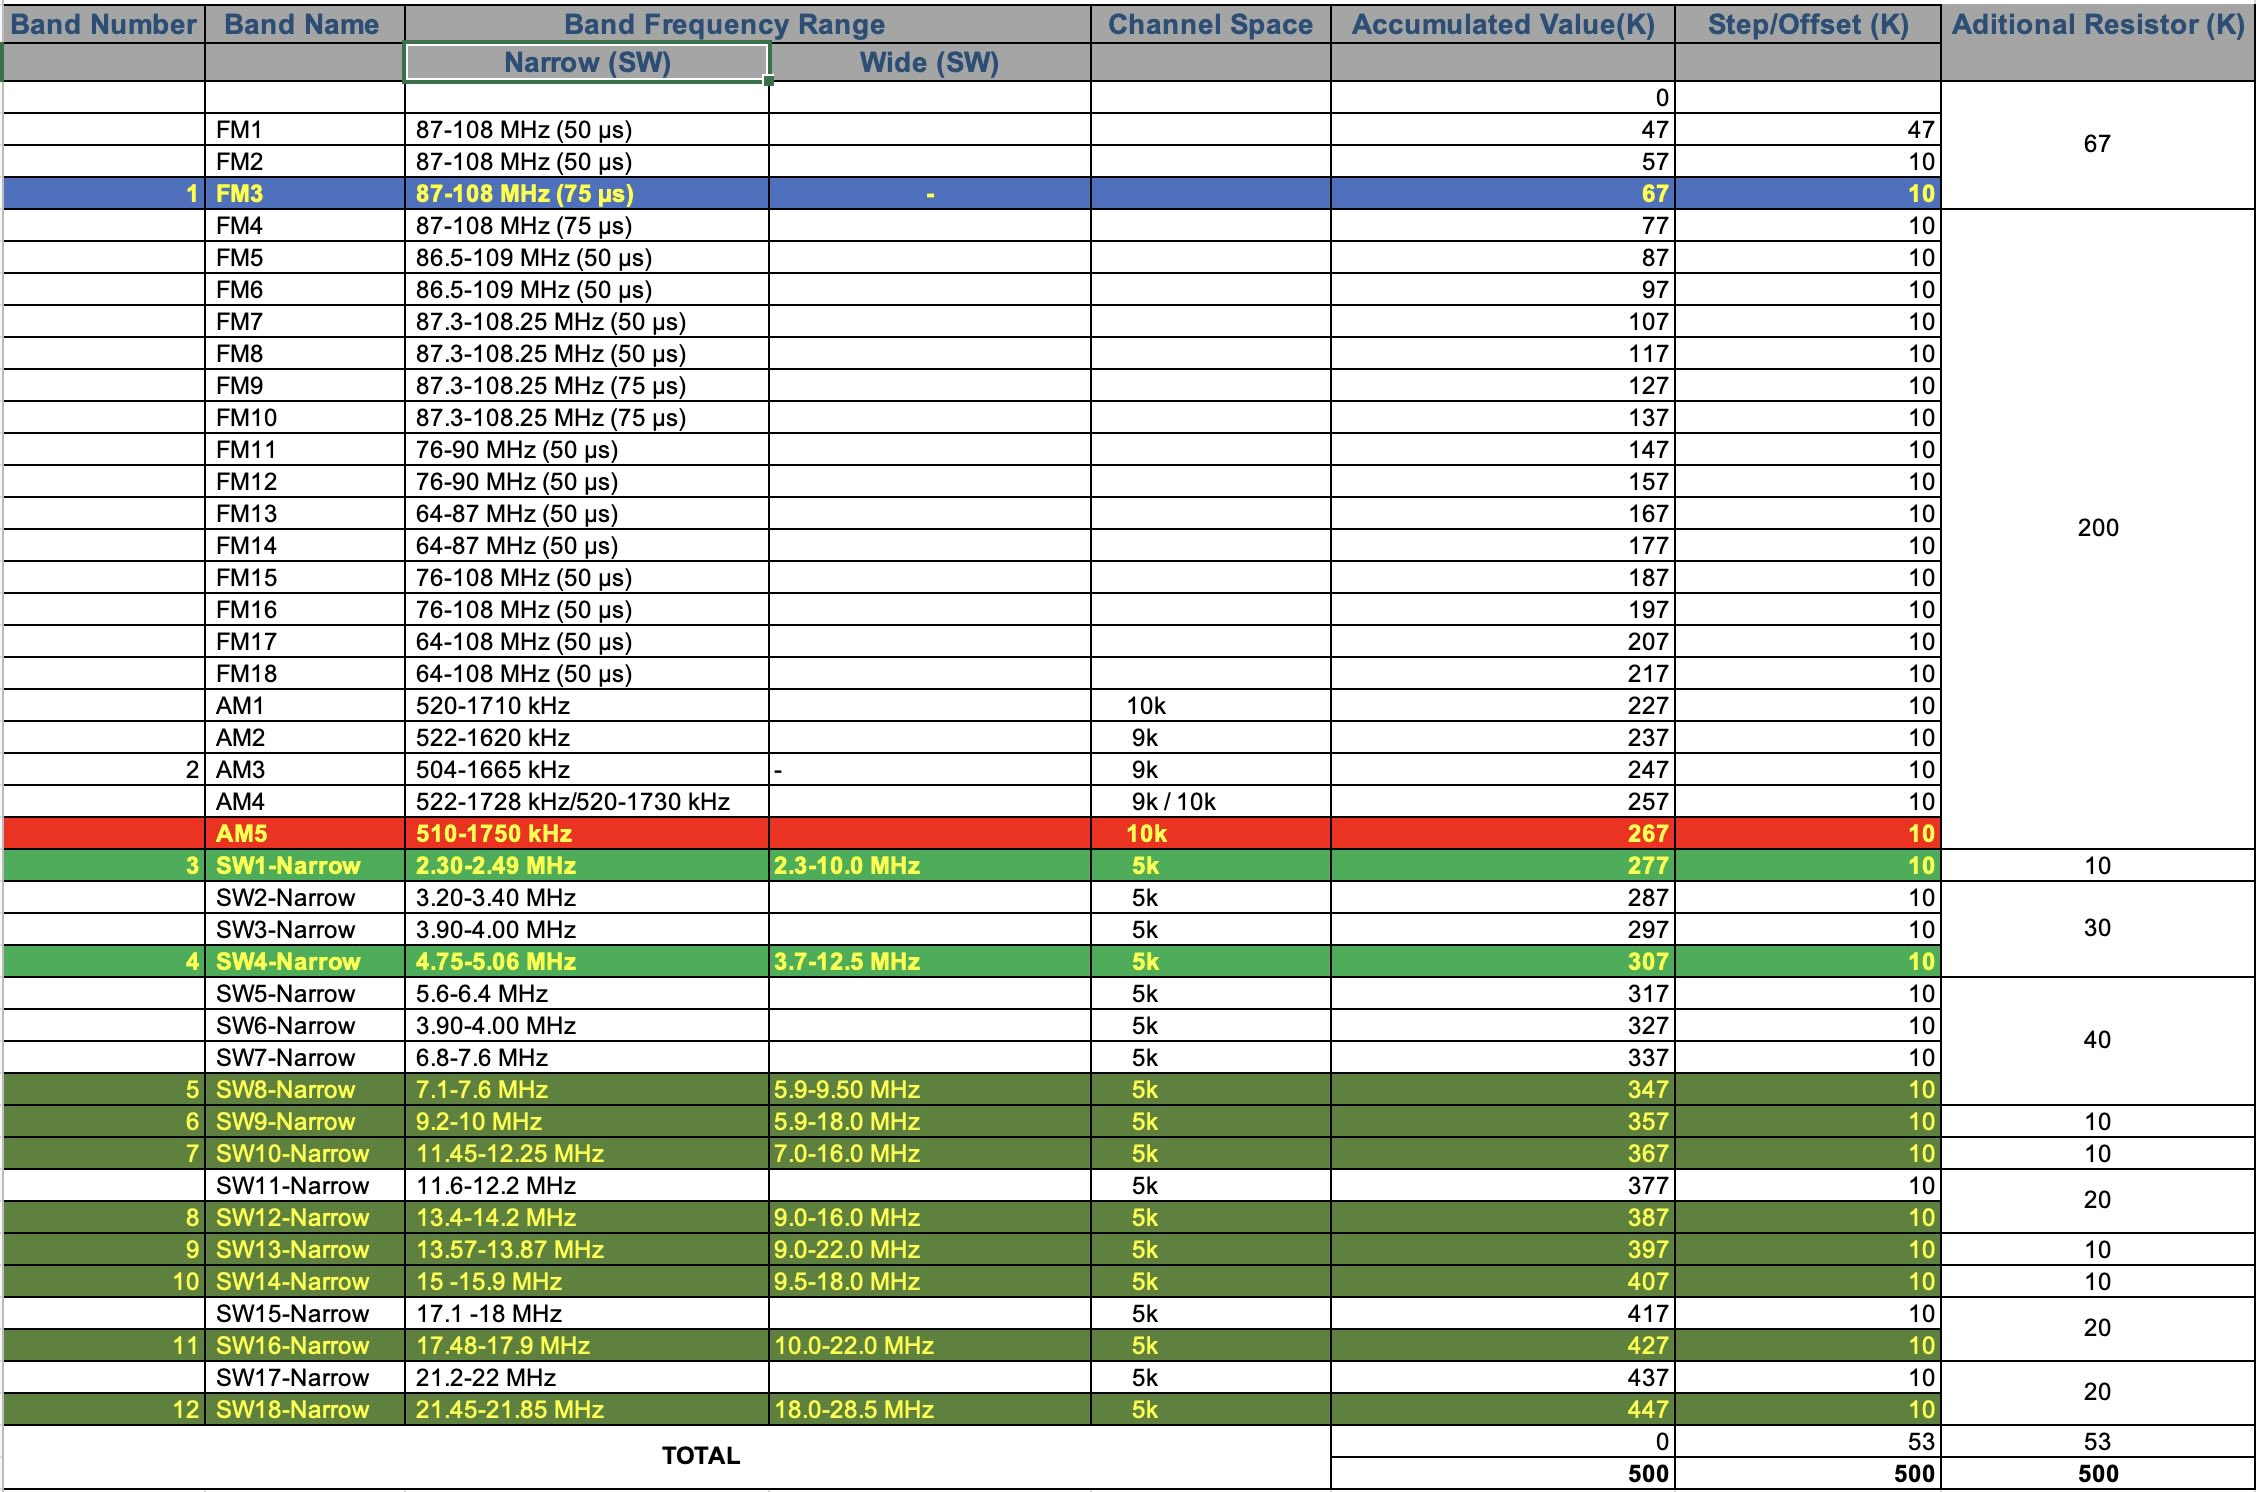
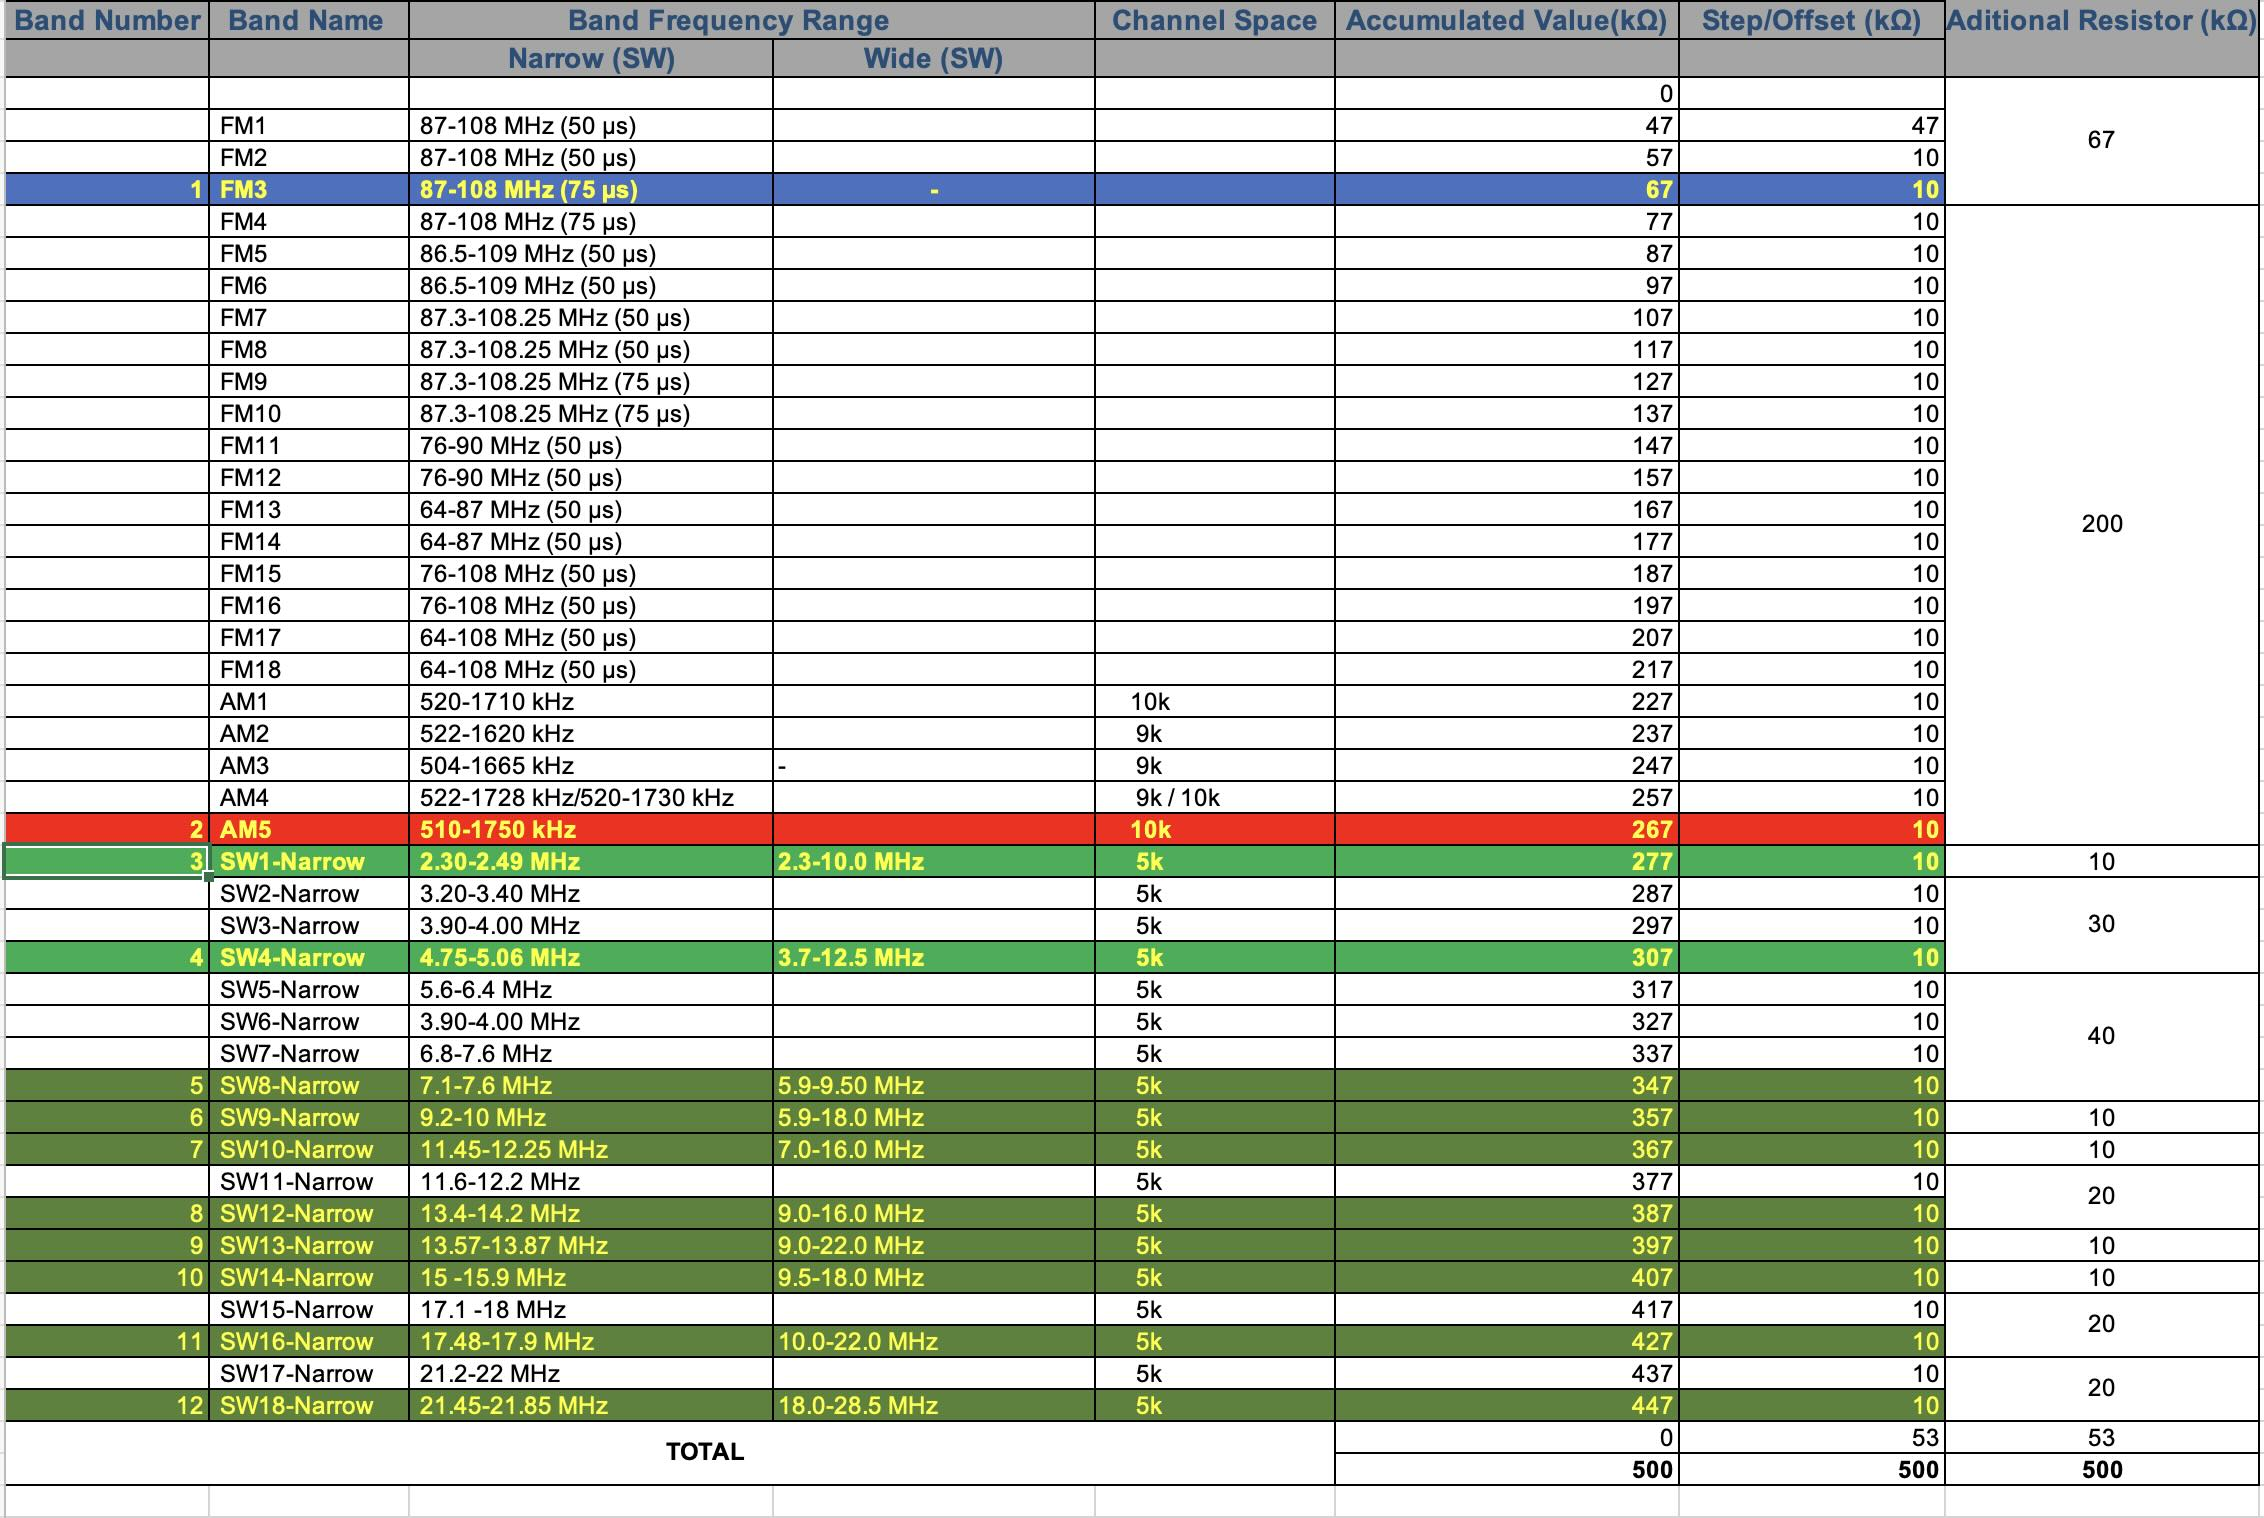
Doc

diff --git a/README.md b/README.md
@@ -114,9 +114,9 @@ The values of the resistor network **do not need to be changed** to switch betwe
 As a result, each shortwave band can have **two possible coverage ranges**. See the table below. 
 
 
-| Band Name  | Band Frequency Range       | Channel Space | AR(K) | Note               |
+| Band Name  | Band Frequency Range       | Channel Space | AR(kΩ)| Note               |
 | ---------- | -------------------------- | --------------| ----- | ------------------ |  
-|            |                            |               |       | 47K botton resistor|   
+|            |                            |               |       | 47kΩ botton resistor|   
 | FM1        | 87-108 MHz (50 µs)         |               |  47   |                    |             
 | FM2        | 87-108 MHz (50 µs)         |               |  57   |                    | 
 | FM3        | 87-108 MHz (75 µs)         |               |  67   |                    |
@@ -176,7 +176,7 @@ As a result, each shortwave band can have **two possible coverage ranges**. See 
 | SW17-Narrow| 21.2-22 MHz                |      5k       |       | Pin 1 **floating** |   
 | SW18-Wide  | 18.0-28.5 MHz              |      5k       | 447   | Pin 1 pulled up    |
 | SW18-Narrow| 21.45-21.85 MHz            |      5k       |       | Pin 1 **floating** | 
-|            |                            |               | 500   | 53K top resistor   |       
+|            |                            |               | 500   | 53kΩ top resistor   |       
 
 #### About the Previous Table:
 
